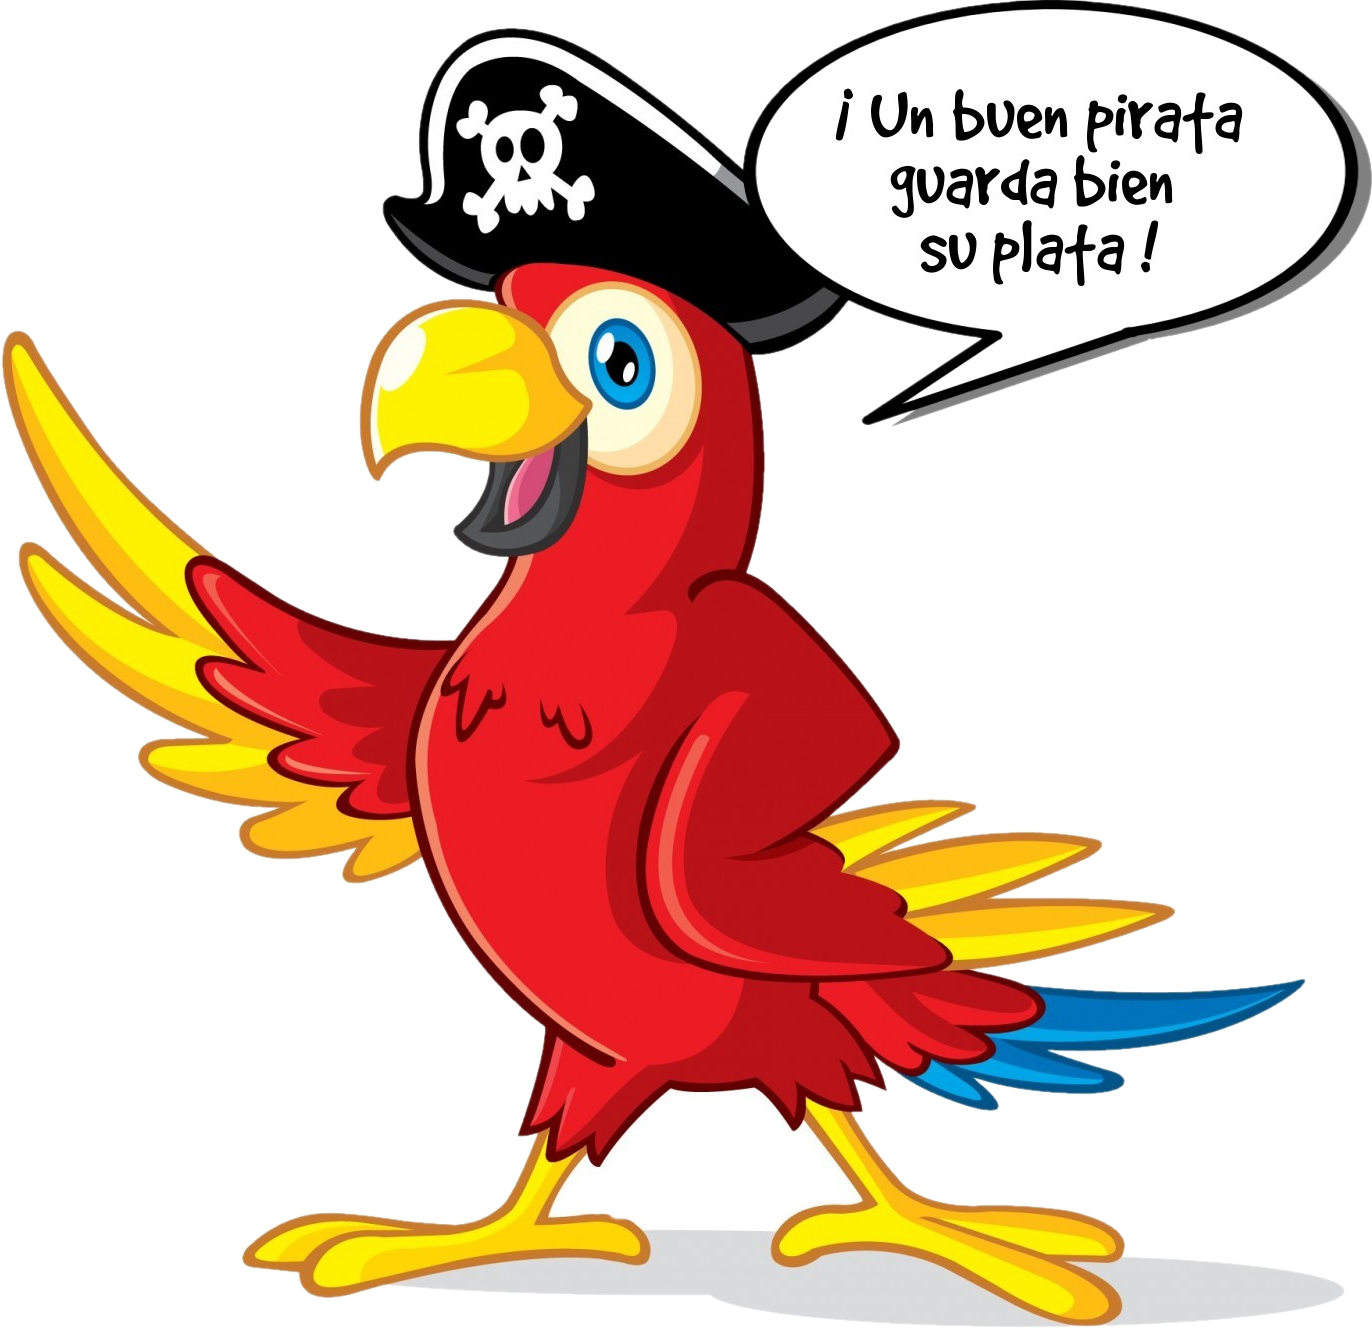
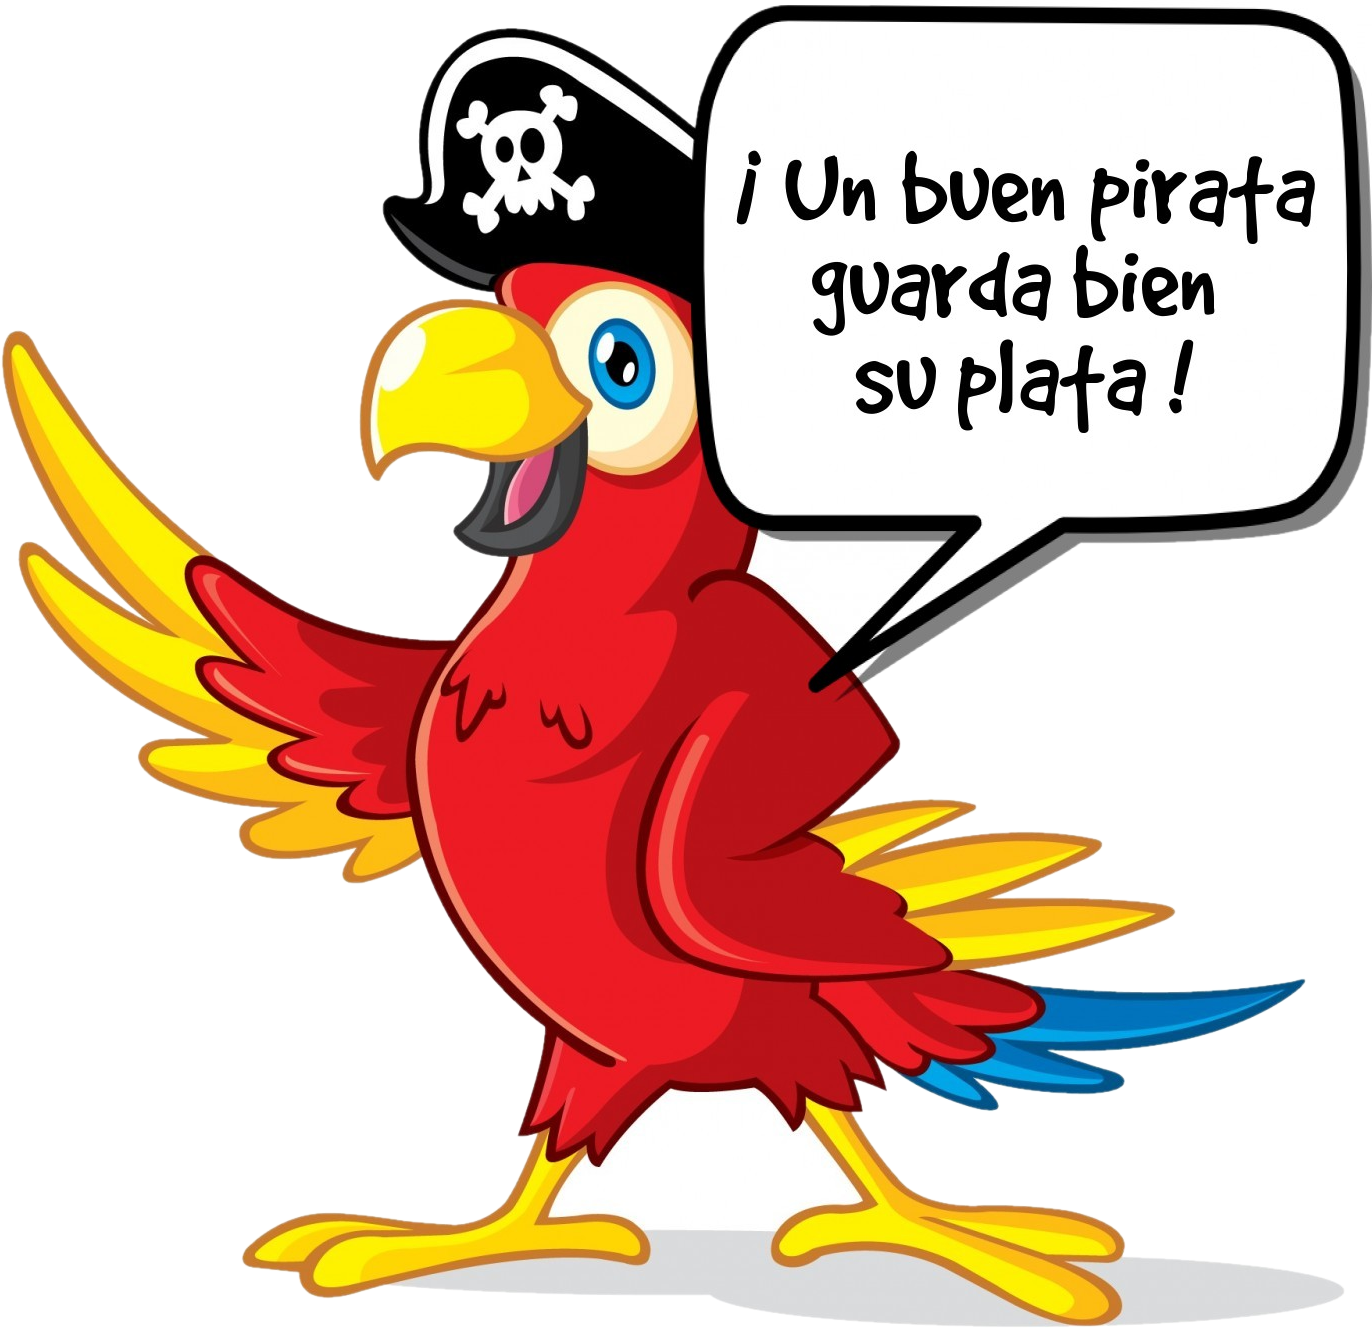
agregando titulo en gameboard.component.html y cambiando forma de comentario del loro

Changed region(s): [[0.4898, 0.0, 1.0, 0.5248]]

diff --git a/src/app/components/gameboard/gameboard.component.css b/src/app/components/gameboard/gameboard.component.css
@@ -5,6 +5,15 @@
             padding-top: 20px;
         }
 
+        .titleTwo {
+            font-size: 50px;
+            color: #FFBF00;
+            text-shadow: 6px 6px 8px rgb(56, 35, 19);
+            padding-bottom: 30px;
+            font-family: 'Pirata One', cursive;
+        }
+                
+
         .row{
             justify-content: space-around !important;
         }
@@ -27,8 +36,18 @@
             .row {
                 justify-content: center;
             }
-            /* main {
-                    display: flex;
-                    justify-self: center;
-                } */
+            main {
+                display: flex;
+                justify-content: space-between !important;
+                grid-template-columns: 30px 30px 30px;
+                background-size: cover;
+            }
+            app-square {
+                height: 30px;
+            }
+            img {
+                width: 150px;
+                height: 150px;
+            }
         }
+

diff --git a/src/app/app.module.ts b/src/app/app.module.ts
@@ -18,6 +18,7 @@ import { EnemyBoardComponent } from './components/enemy-board/enemy-board.compon
 import { EnemySquareComponent } from './components/enemy-square/enemy-square.component';
 import { SquareComponent } from './components/square/square.component';
 import { GameboardComponent } from './components/gameboard/gameboard.component';
+import { WinnerComponent } from './winner/winner.component';
 
 
 @NgModule({
@@ -29,7 +30,8 @@ import { GameboardComponent } from './components/gameboard/gameboard.component';
     BoardComponent,
     EnemyBoardComponent,
     EnemySquareComponent,
-    GameboardComponent
+    GameboardComponent,
+    WinnerComponent
   ],
   imports: [
     BrowserModule,

diff --git a/src/app/winner/winner.component.spec.ts b/src/app/winner/winner.component.spec.ts
@@ -1,0 +1,25 @@
+import { async, ComponentFixture, TestBed } from '@angular/core/testing';
+
+import { WinnerComponent } from './winner.component';
+
+describe('WinnerComponent', () => {
+  let component: WinnerComponent;
+  let fixture: ComponentFixture<WinnerComponent>;
+
+  beforeEach(async(() => {
+    TestBed.configureTestingModule({
+      declarations: [ WinnerComponent ]
+    })
+    .compileComponents();
+  }));
+
+  beforeEach(() => {
+    fixture = TestBed.createComponent(WinnerComponent);
+    component = fixture.componentInstance;
+    fixture.detectChanges();
+  });
+
+  it('should create', () => {
+    expect(component).toBeTruthy();
+  });
+});

diff --git a/src/app/components/gameboard/gameboard.component.html b/src/app/components/gameboard/gameboard.component.html
@@ -1,8 +1,8 @@
 <section id="gameboard">
     <div class="container p-0">
         <div class="text-center">
-            <button type="button" class="b``tn btn-warning px-5 py-3 shadow my-4" (click)="newGame()">New Game</button>
-        </div>
+                <h1 class="titleTwo m-0 pt-3">Isla del Tesoro</h1>
+            </div>
         <div class="row justify-content-center m-0">
             <div id="playerOne" class="col-10 col-sm-10 col-md-5 col-lg-5 p-0">
                 <app-board></app-board>

diff --git a/src/app/winner/winner.component.ts b/src/app/winner/winner.component.ts
@@ -1,0 +1,15 @@
+import { Component, OnInit } from '@angular/core';
+
+@Component({
+  selector: 'app-winner',
+  templateUrl: './winner.component.html',
+  styleUrls: ['./winner.component.css']
+})
+export class WinnerComponent implements OnInit {
+
+  constructor() { }
+
+  ngOnInit() {
+  }
+
+}

diff --git a/src/app/winner/winner.component.html b/src/app/winner/winner.component.html
@@ -1,0 +1,1 @@
+<p>winner works!</p>
